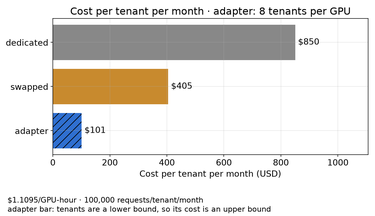
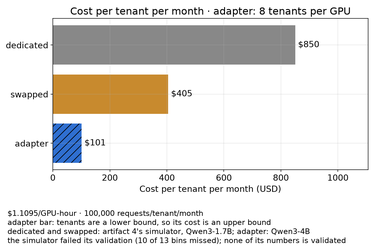
data: artifact 5 analysis re-derived with artifact 4's model and validation; cost figure and post updated
- data/a5/analysis.json: re-run with `scripts/a5_analyse.py --require-a4`
  on artifact 4's d7cf0c3 cost file. The only change is the added
  `a4_context` key; a second run to a scratch path is byte-identical.
- docs/figures/a5/cost_per_tenant{,-phone}.png: re-rendered; the note under
  the axis now names the model classes and says artifact 4's simulator
  failed its validation (10 of 13 bins missed) and that none of its numbers
  is validated. The other three figures re-render byte-identical.
- docs/post-a5.md: the cost section, 'Adapters versus swapping models' and
  Limits state that the dedicated and swapped bars come from artifact 4's
  simulator, which failed its pre-registered validation at the reference
  row used here; what that does to each bar; that the adapter bar placed
  beside the swapped bar inherits the caveat. The cost figure's alt text
  describes the new note. Reproduce says where artifact 4's file comes
  from. The numbers block is unchanged and current.

diff --git a/docs/post-a5.md b/docs/post-a5.md
@@ -250,17 +250,29 @@ is about 115 requests a second, against about 7.3 a second for 64 tenants at
 peak under these assumptions. A product could run past the knee and still meet
 the SLO; it would pay for that in throughput per GPU.
 
-![Horizontal bars of cost per tenant per month in US dollars, all at 1.1095 dollars per GPU-hour. Dedicated, 850 dollars, and swapped, 405 dollars, are artifact 4's simulated fleet of Qwen3-1.7B models at its bursty regime with Zipf skew 1.0. Adapter, 101 dollars, is this artifact's Qwen3-4B at 8 tenants per GPU, drawn hatched because it is an upper bound: tenants are a lower bound. The two sides use different model sizes, so the bars are not a like-for-like comparison.](figures/a5/cost_per_tenant.png)
+![Horizontal bars of cost per tenant per month in US dollars, all at 1.1095 dollars per GPU-hour. Dedicated, 850 dollars, and swapped, 405 dollars, come from artifact 4's simulator of a fleet of Qwen3-1.7B models at its bursty regime with Zipf skew 1.0. Adapter, 101 dollars, is this artifact's Qwen3-4B at 8 tenants per GPU, drawn hatched because it is an upper bound: tenants are a lower bound. A note under the axis gives the GPU rate and the requests per tenant, says the adapter bar is an upper bound, names the model classes (dedicated and swapped from artifact 4's simulator on Qwen3-1.7B, adapter on Qwen3-4B), and says the simulator failed its validation, with 10 of 13 bins missed, so none of its numbers is validated. The two sides use different model sizes, so the bars are not a like-for-like comparison.](figures/a5/cost_per_tenant.png)
 
 | strategy | tenants per GPU | cost per tenant per month | source |
 |---|---|---:|---|
-| dedicated | artifact 4's sizing | $850.43 | artifact 4, bursty regime, s = 1.0, Qwen3-1.7B |
-| swapped | artifact 4's sizing | $404.97 | artifact 4, bursty regime, s = 1.0, Qwen3-1.7B |
+| dedicated | artifact 4's sizing | $850.43 | artifact 4's simulator, bursty regime, s = 1.0, Qwen3-1.7B; not validated |
+| swapped | artifact 4's sizing | $404.97 | artifact 4's simulator, bursty regime, s = 1.0, Qwen3-1.7B; not validated |
 | adapter | 8, a lower bound | $101.24, an upper bound | this artifact, Qwen3-4B |
 
 The adapter cost is the GPU's monthly cost, $1.1095 × 730 hours, divided by 8
 tenants. The section on swapping models says why the first two rows and the
 third are not like-for-like.
+
+**The first two rows come from a simulator that failed its own test.** Artifact
+4's costs come from a simulator fed with measured inputs, and artifact 4
+pre-registered a test the simulator had to pass before it was trusted:
+reproduce a real one-GPU, three-model replay at its bursty regime, s = 1.0.
+That operating point is the reference row used here. The validation outcome is
+failed: 10 of 13 judged bins were outside the band of three real repeats (3
+agreed), the largest miss was 67.8 s, and 1 of 2 held-out interference cells
+passed. The swap count agreed: 11 predicted, 10 real in all three repeats.
+Nothing in artifact 4's cost file is validated, at the reference point or
+anywhere else. The section on swapping models says what that means for each
+bar.
 
 ---
 
@@ -421,6 +433,25 @@ file names the reference point this comparison uses, the bursty regime at Zipf
 skew s = 1.0, where its dedicated strategy costs $850.43 per tenant per month
 and its swapped strategy $404.97, at the same $1.1095 per GPU-hour.
 
+**Both of those numbers come from artifact 4's simulator, which failed its
+pre-registered validation**, at exactly this operating point: bursty, s = 1.0,
+three models on one GPU. 10 of 13 judged bins fell outside the band of three
+real repeats, the largest miss was 67.8 s, and 1 of 2 held-out interference
+cells passed; the swap count agreed, 11 predicted against 10 real in all three
+repeats. The failure does not touch the two bars the same way. The swapped bar
+depends on the model that failed, since the gate tested exactly the swap path,
+and the direction of the model's error on it is not known. The dedicated bar was
+not tested by that gate, so it is neither validated nor shown wrong. By artifact
+4's pre-registered sizing rule, as I read it, the dedicated fleet is fixed by
+construction, one GPU per model plus pinned GPUs for hot models, sized from
+measured saturation rather than from the simulated latencies; the gate did not
+check that reading. Nothing in the file is validated, at this point or any
+other. Artifact 4 says the ordering is wide, "dedicating costs about twice the
+cheapest option", and that it did not test whether the model's error is small
+enough to leave the ordering unchanged. The adapter bar is this artifact's own
+measurement, but placed beside the swapped bar it inherits that caveat: the
+comparison between adapters and swapping is only as firm as the swapped bar.
+
 **This is not a like-for-like comparison, and I do not present it as one.**
 Artifact 4's costs come from a simulated fleet of 20 Qwen3-1.7B models with
 256-token outputs, under its own traffic model, offered load and SLO. Artifact
@@ -505,6 +536,12 @@ heterogeneity cost moves throughput, and memory does not.
   sample on artifact 4's endpoint. This artifact's own billing implied $1.1084
   on the measurement endpoint and $1.1090 on the reconnaissance endpoint. The
   $14.48 spend covers those two endpoints and not network-volume storage.
+- **Artifact 4's costs come from a simulator that failed its validation.** At
+  the bursty, s = 1.0 point used here, 10 of 13 judged bins missed the band of
+  three real repeats and 1 of 2 held-out cells passed. The swapped bar depends
+  on the failed model, in a direction not known; the dedicated bar was not
+  tested by the gate. Nothing in artifact 4's file is validated, and the adapter
+  bar, set beside the swapped bar, inherits that.
 - **The cost comparison crosses model sizes.** Artifact 4's reference point was
   measured on Qwen3-1.7B, this artifact on Qwen3-4B.
 - **The gate was extended after its result was seen**, twice, and the knee's
@@ -518,9 +555,12 @@ heterogeneity cost moves throughput, and memory does not.
 ## Reproduce it
 
 The results come from two committed stores and one committed file from
-artifact 4. The pilot gate, reconnaissance and billing figures are recorded,
-with their sources, in `docs/experiment-a5.md` and `docs/recon-a5.md`. No GPU
-is needed for any step below:
+artifact 4. That file, `data/a4/cost_per_tenant.json`, is a byte-identical copy
+of the file at artifact 4's commit d7cf0c3, which at the time of writing exists
+in artifact 4's local repository and is not on origin. The pilot gate,
+reconnaissance and billing figures are recorded, with their sources, in
+`docs/experiment-a5.md` and `docs/recon-a5.md`. No GPU is needed for any step
+below:
 
 ```bash
 git clone https://github.com/alexostapiuk11/coldstart-recon-worker
